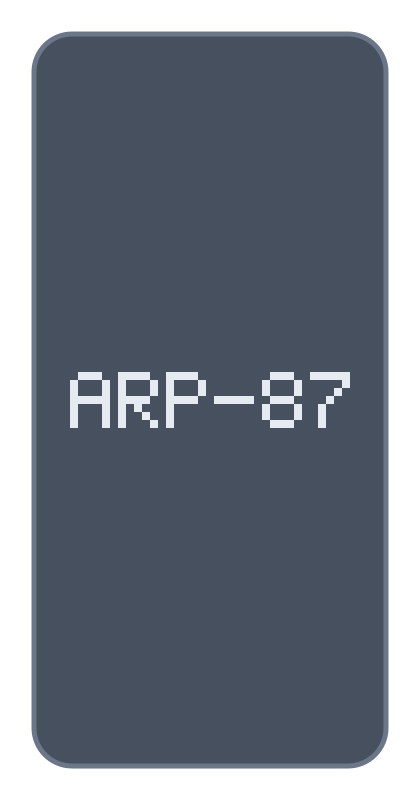
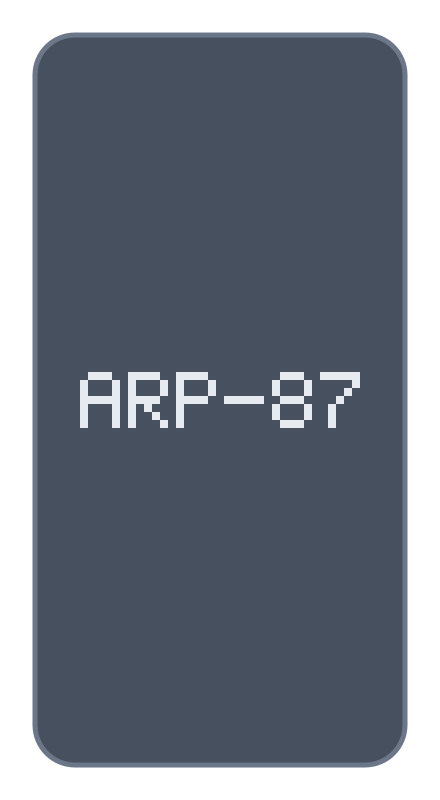
fix(catalog): Copilot round 2 — preserve corrected dims, null rows, variant footprint, classifier
- import: widthCm/heightCm added to CURATION_KEYS (verified footprints survive a
  re-import); null/non-object rows are skipped+warned (were a crash).
- convert: a colorway inherits its base footprint (normalized) — fixes ARP-87
  Platinum 6.6 -> 6.91 cm; PNGs regenerated.
- classifier: a clean 'line driver' is no longer an overdrive (CAE Boost/Line
  Driver -> boost); an 'acoustic preamp' is no longer acoustic-sim (AD-2 ->
  preamp).
Tests 82.

diff --git a/tools/catalog-transform/convert.test.ts b/tools/catalog-transform/convert.test.ts
@@ -87,6 +87,32 @@ describe("convertPedals", () => {
 		expect(items[0]?.category).toBe("supply");
 	});
 
+	it("skips null/non-object rows and keeps the valid ones", () => {
+		const { items, warnings } = convertPedals(
+			[
+				null,
+				{ Brand: "Acme", Name: "Big Fuzz", Width: 2.5, Height: 4.7 },
+			] as unknown as ExternalRow[],
+			{ source: "placeholder" },
+		);
+		expect(items.map((i) => i.id)).toContain("acme-big-fuzz");
+		expect(warnings.some((w) => w.includes("null"))).toBe(true);
+	});
+
+	it("normalizes a colorway's dimensions to its base footprint", () => {
+		const { items } = convertPedals(
+			[
+				{ Brand: "Acme", Name: "Big Fuzz", Width: 2.5, Height: 4.7 },
+				{ Brand: "Acme", Name: "Big Fuzz (Green)", Width: 9, Height: 9 },
+			],
+			{ source: "placeholder" },
+		);
+		expect(items.find((i) => i.id === "acme-big-fuzz-green")).toMatchObject({
+			widthCm: 6.35,
+			heightCm: 11.94,
+		});
+	});
+
 	it("produces output that validates against the catalog schema", () => {
 		for (const pedal of result.items) {
 			expect(CatalogPedalSchema.safeParse(pedal).success).toBe(true);
@@ -99,15 +125,24 @@ describe("preserveCuration", () => {
 		id: string;
 		image: string;
 		imageSource: "mock" | "static";
+		widthCm?: number;
+		heightCm?: number;
 		source?: "placeholder" | "brand-assets";
 		sources?: { url: string; kind: ("info" | "image")[] }[];
 		power?: { voltage: number; acDc: "DC" | "AC"; currentMa: number };
 		links?: { label: string; url: string }[];
 	};
 
-	it("carries curation fields from existing items, matched by id", () => {
+	it("carries curation fields (incl. corrected dimensions) from existing items, matched by id", () => {
 		const next: TestItem[] = [
-			{ id: "a", image: "a.png", imageSource: "mock", source: "placeholder" },
+			{
+				id: "a",
+				image: "a.png",
+				imageSource: "mock",
+				widthCm: 9,
+				heightCm: 9,
+				source: "placeholder",
+			},
 			{ id: "b", image: "b.png", imageSource: "mock", source: "placeholder" },
 		];
 		const existing: TestItem[] = [
@@ -115,6 +150,8 @@ describe("preserveCuration", () => {
 				id: "a",
 				image: "a.png",
 				imageSource: "static",
+				widthCm: 6.35,
+				heightCm: 11.94,
 				source: "brand-assets",
 				sources: [{ url: "https://x.example/a", kind: ["info"] }],
 				power: { voltage: 9, acDc: "DC", currentMa: 12 },
@@ -123,6 +160,8 @@ describe("preserveCuration", () => {
 		];
 		const merged = preserveCuration(next, existing);
 		expect(merged[0]).toMatchObject({
+			widthCm: 6.35,
+			heightCm: 11.94,
 			imageSource: "static",
 			source: "brand-assets",
 			sources: [{ url: "https://x.example/a", kind: ["info"] }],
@@ -139,6 +178,17 @@ describe("preserveCuration", () => {
 });
 
 describe("convertBoards", () => {
+	it("skips null rows and keeps valid boards", () => {
+		const { items } = convertBoards(
+			[
+				null,
+				{ Brand: "Acme", Name: "Terra 24", Width: 24, Height: 12 },
+			] as unknown as ExternalRow[],
+			{ source: "placeholder" },
+		);
+		expect(items.map((b) => b.id)).toEqual(["acme-terra-24"]);
+	});
+
 	it("maps external rows to our board schema", () => {
 		const { items } = convertBoards(
 			[{ Brand: "Acme", Name: "Terra 24", Width: 24, Height: 12 }],

diff --git a/tools/catalog-transform/convert.ts b/tools/catalog-transform/convert.ts
@@ -78,6 +78,10 @@ export function convertPedals(
 	const seen = new Set<string>();
 
 	for (const row of rows) {
+		if (!row || typeof row !== "object") {
+			warn("skipped a null/non-object row");
+			continue;
+		}
 		const brand = asTrimmedString(row.Brand);
 		const displayName = asTrimmedString(row.Name);
 		if (!brand || !displayName) {
@@ -143,6 +147,20 @@ export function convertPedals(
 		return true;
 	});
 
+	// A colorway shares its base model's footprint — a variant row must not change
+	// the planned occupied size (true-scale). Normalize to the base dimensions.
+	const dimsById = new Map(
+		items.map((p) => [p.id, { widthCm: p.widthCm, heightCm: p.heightCm }]),
+	);
+	for (const item of items) {
+		if (!item.variantOf) continue;
+		const base = dimsById.get(item.variantOf);
+		if (base) {
+			item.widthCm = base.widthCm;
+			item.heightCm = base.heightCm;
+		}
+	}
+
 	return { items, warnings };
 }
 
@@ -154,6 +172,8 @@ export function convertPedals(
  * otherwise wipe them.
  */
 const CURATION_KEYS = [
+	"widthCm", // corrected footprints must survive a re-import (true-scale)
+	"heightCm",
 	"sources",
 	"source", // rights tag — keep a cleared item cleared
 	"power",
@@ -199,6 +219,10 @@ export function convertBoards(
 	const seen = new Set<string>();
 
 	for (const row of rows) {
+		if (!row || typeof row !== "object") {
+			warn("skipped a null/non-object row");
+			continue;
+		}
 		const brand = asTrimmedString(row.Brand);
 		const name = asTrimmedString(row.Name);
 		if (!brand || !name) {

diff --git a/tools/catalog-transform/effects.ts b/tools/catalog-transform/effects.ts
@@ -27,8 +27,9 @@ export const EFFECT_RULES: { type: EffectType; pattern: RegExp }[] = [
 	},
 	{
 		type: "overdrive",
+		// "driver" is an overdrive ("Blues Driver") except a clean "line driver".
 		pattern:
-			/\boverdrive\b|\bdrive\b|\bdriver\b|\bscreamer\b|\bod-?\d|\bbd-?\d/i,
+			/\boverdrive\b|\bdrive\b|(?<!line\s)\bdriver\b|\bscreamer\b|\bod-?\d|\bbd-?\d/i,
 	},
 	{ type: "boost", pattern: /\bboost(er)?\b/i },
 	{
@@ -53,7 +54,8 @@ export const EFFECT_RULES: { type: EffectType; pattern: RegExp }[] = [
 	// Non-effect roles / utilities.
 	{ type: "envelope", pattern: /\benvelope\b/i },
 	{ type: "filter", pattern: /\bfilter\b/i },
-	{ type: "acoustic-sim", pattern: /\bacoustic\b/i },
+	// "acoustic SIMULATOR" only — an acoustic preamp/D.I. is not a sim.
+	{ type: "acoustic-sim", pattern: /\bacoustic\s+(sim|simulator)\b/i },
 	{ type: "organ-sim", pattern: /\borgan\b/i },
 	{ type: "amp-modeler", pattern: /\bamp ?worx\b|\bamp\s+model/i },
 	{ type: "power-amp", pattern: /\bpower\s+amp\b/i },

diff --git a/tools/catalog-transform/effects.test.ts b/tools/catalog-transform/effects.test.ts
@@ -39,6 +39,18 @@ describe("classifyEffects", () => {
 		expect(classifyEffects("8 Step Program")).toEqual(["sequencer"]);
 	});
 
+	it("does not call a clean line driver an overdrive", () => {
+		expect(classifyEffects("CAE Boost/Line Driver")).toEqual(["boost"]);
+		expect(classifyEffects("Blues Driver")).toEqual(["overdrive"]);
+	});
+
+	it("does not tag an acoustic preamp as an acoustic simulator", () => {
+		expect(classifyEffects("AC-2 Acoustic Simulator")).toEqual([
+			"acoustic-sim",
+		]);
+		expect(classifyEffects("AD-2 Acoustic Preamp")).toEqual(["preamp"]);
+	});
+
 	it("classifies a variant by its base name (no colorway-suffix leak)", () => {
 		expect(
 			deriveEffectTypes({ brand: "Acme", name: "Big Fuzz (Metal)" }),

diff --git a/docs/progress.md b/docs/progress.md
@@ -32,6 +32,7 @@
 - **Sequencing note (S7):** P0-02 is done (2026-09-30). **Owner-blocked rule (owner instruction, 2026-09-29):** when the next task is owner-blocked, agents STOP and wait for the owner — they do NOT skip ahead to unblocked tasks. Remaining owner actions: P0-05 dataset (only to run `import`/backfill — the committed seed covers dev/CI), P2-06 outreach, launch gate (see `docs/phase-guide.md`). P0-03 and P0-04 are **done** (2026-10-13). **P0-05 is in review (PR #5, pending merge)** — Next stays P0-05 until merged (AGENTS rule 9). Neither P0-04 nor P0-05 is owner-blocked.
 
 ## Session log
+- 2026-10-14 — **Copilot review round 2 (5 findings, all real).** (1) **Import preserves corrected dimensions** — `widthCm`/`heightCm` added to `CURATION_KEYS` (a verified footprint must survive a re-import). (2) **Null/non-object rows** are skipped+warned in both converters (was a crash). (3) **Variant footprints normalized to the base** (fixed ARP-87 Platinum 6.6→6.91 cm; PNGs regenerated). (4) **Classifier:** "line driver" no longer an overdrive (CAE Boost/Line Driver → `boost`); (5) "acoustic preamp" no longer `acoustic-sim` (AD-2 → `preamp`). Tests 82; typecheck/lint/build green; `reclassify` idempotent; 0 variant dim mismatches.
 - 2026-10-14 — **Copilot review fixes (4 findings, all real).** (1) **Import now merge-preserves curation by stable id** (`preserveCuration` in `convert.ts`; wired into `runImport`) so re-running the documented backfill can't wipe `sources`/`power`/`jacks`/cleared-image state. (2) **`catalog:seed` refuses non-`mock` items** (never renders over a cleared `static`/`url` asset nor prunes it). (3) **Powerplay P1 reclassified** `supply → pedal` (`utility`) — removed the bad `powerplay` supply shortcut (it's a personal IEM amp). (4) **Classifier strips colorway suffixes** so variants can't diverge from their base. Tests 77; typecheck/lint green; seed regenerated (supplies 7→6, `effectTypes` 201/207).
 - 2026-10-14 — **Plan: full-catalog backfill made an explicit pre-launch phase (owner question).** Replaced the loose "Catalog data track" with **P5 — Catalog completion (pre-launch)** in `docs/roadmap.md` (P5-01 full-catalog backfill of all brands/models + specs, P5-02 image clearance, P5-03 provenance/dimension sweep, P5-04 launch-gate sign-off), pointing at `docs/catalog-backfill.md`. Docs-only.
 - 2026-10-14 — **Official image-source links recorded (owner: we had none).** Ran the `pedal-expert` agent over the **187 base models** (8 batches) to find each pedal's **official image source** (manufacturer product/media/press page + direct official image URL; rights `pending`; **no download**). Mapped + merged into the seed: `sources[].kind` is now a non-empty array (`["info"]`/`["image"]`/both) — **485 refs, 340 `image` across 170 models**. Links only; every image is still `mock`. Docs (ADR-003 §Per-item sources, design.md, backfill appendix w/ Img-links column, schema) + tests. `pnpm test` 73; typecheck/lint green; `reclassify` idempotent + preserves sources.

diff --git a/tools/catalog-transform/README.md b/tools/catalog-transform/README.md
@@ -34,7 +34,9 @@ An array of rows; dimensions in **inches**:
 - Dimensions are **inches**; the converter multiplies by 2.54 and rounds to 2
   decimals (cm is the storage unit — design.md).
 - Ids are stable slugs built from `brand + name`; a trailing `(...)` becomes a
-  colorway linked via `variantOf`.
+  colorway linked via `variantOf`. A colorway inherits its **base model's
+  footprint** — variant rows with conflicting dimensions are normalized to the
+  base (a finish must not change the planned occupied size).
 - Rows missing brand/name or width/height are skipped with a warning; duplicate
   slugs are skipped (first wins); variants whose base is absent are dropped.
 - **Any external image name is ignored.** We always emit our own mocked name
@@ -71,9 +73,10 @@ The external data has **no** taxonomy, so `effectTypes` and `category` are OURS
 
 ## Re-import preserves curation
 
-`import` merges onto the existing catalog by **stable id**: `sources`, `source`
-(rights tag), `power`, `jacks`, `image`/`imageSource`, and `links` are carried
-over for surviving ids (new ids get the converter defaults). So `--source` tags
+`import` merges onto the existing catalog by **stable id**: `widthCm`/`heightCm`
+(corrected footprints), `sources`, `source` (rights tag), `power`, `jacks`,
+`image`/`imageSource`, and `links` are carried over for surviving ids (new ids
+get the converter defaults). So `--source` tags
 **newly imported items only** — an existing id keeps its curated provenance tag.
 Boards are only read/written when `--boards` is passed (a pedals-only import
 never blanks `boards.json`). A malformed existing catalog fails loudly rather
